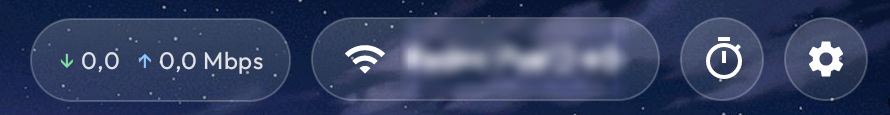
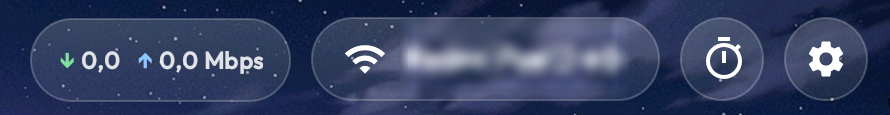
Launcher: huruf pil kecepatan internet ditebalkan dan rilis 3.38-netspeed-tebal
Posisi, warna panah, dan perilaku tidak berubah. Diuji di AX810 (Android TV 11).

Changed region(s): [[0.0607, 0.4435, 0.3034, 0.6261]]

diff --git a/PASANG.md b/PASANG.md
@@ -9,8 +9,8 @@ Launcher Android TV / Google TV bergaya Apple TV, berbasis [CleanYourTV](https:/
 - Kartu jadwal sholat dan jadwal bola dibuat **lebih besar**; kartu kalender disembunyikan secara bawaan (bisa dimunculkan lagi di Setelan)
 - Kartu bergaya **kaca bening (tembus pandang)**: wallpaper tetap terlihat di balik latar buram, dengan kilau tipis di atas, tepi terang, dan teks putih tebal yang mudah dibaca dari sofa
 - **Cuaca hari ini** tepat di bawah tanggal, dengan ikon yang berubah mengikuti kondisi (mis. `Gerimis · 28°C · 26°–29°`), mengikuti lokasi jadwal sholat. Saat jam berjalan berisi hujan (minimal 0,1 mm), teks dan ikon mengikuti data per jam, jadi gerimis tidak lagi tertulis "Berawan"
-- **Baris statistik** kecil di bawah jam: CPU, RAM dan penyimpanan yang sedang dipakai (build 3.27-3.37), dengan ikon dan teks yang disejajarkan
-- **Kecepatan internet** kecil di kiri nama Wi-Fi: unduh dan unggah dalam Mbps, diperbarui tiap detik selama Home tampil (build 3.36-3.37)
+- **Baris statistik** kecil di bawah jam: CPU, RAM dan penyimpanan yang sedang dipakai (build 3.27-3.38), dengan ikon dan teks yang disejajarkan
+- **Kecepatan internet** kecil berhuruf tebal di kiri nama Wi-Fi: unduh dan unggah dalam Mbps, diperbarui tiap detik selama Home tampil (build 3.36-3.38)
 - **Tombol mic di remote** membuka suara Google (build 3.35). Di TV SDMC/AX810 tombol itu dulu tidak bereaksi karena aplikasi suara Google-nya dimatikan; build ini menyalakannya lagi dan menambahkan jembatan kecil di launcher
 
 Butuh TV Android 8 ke atas, dan sebuah HP Android (pakai Termux) atau komputer untuk menjalankan adb. Cukup sekali saat memasang.
@@ -40,7 +40,7 @@ Izinkan akses penyimpanan saat diminta. File yang kamu unduh ada di `~/storage/d
 
 **Pakai komputer.** Pasang [Android platform-tools](https://developer.android.com/tools/releases/platform-tools), lalu buka Terminal / Command Prompt di folder tempat APK diunduh.
 
-Unduh/salin `CleanYourTV-Sola-3.37-netspeed-kiri.apk` (ada di folder yang sama dengan panduan ini) ke HP atau komputer.
+Unduh/salin `CleanYourTV-Sola-3.38-netspeed-tebal.apk` (ada di folder yang sama dengan panduan ini) ke HP atau komputer.
 
 ## 3. Sambungkan dan cari launcher bawaan
 
@@ -78,7 +78,7 @@ Di Termux (ganti path-nya kalau pakai komputer), jalankan berurutan:
 ```
 adb shell pm enable <launcher-bawaan>
 adb uninstall com.gathin.tvhome
-adb install ~/storage/downloads/CleanYourTV-Sola-3.37-netspeed-kiri.apk
+adb install ~/storage/downloads/CleanYourTV-Sola-3.38-netspeed-tebal.apk
 adb shell cmd package set-home-activity --user 0 com.gathin.tvhome/.MainActivity
 adb shell pm disable-user --user 0 <launcher-bawaan>
 ```
@@ -94,7 +94,7 @@ Tekan tombol **Home** di remote untuk mengecek, lalu lanjut ke langkah 5.
 Kalau TV-mu sudah memakai build khusus ini (kunci debug yang sama) dan cuma ingin memasang versi baru, semua pengaturan tetap aman:
 
 ```
-adb install -r ~/storage/downloads/CleanYourTV-Sola-3.37-netspeed-kiri.apk
+adb install -r ~/storage/downloads/CleanYourTV-Sola-3.38-netspeed-tebal.apk
 ```
 
 Selesai, langkah 5 dan 6 tidak perlu diulang. Kalau gagal dengan pesan `INSTALL_FAILED_UPDATE_INCOMPATIBLE` atau `signatures do not match`, berarti yang terpasang adalah CleanYourTV versi resmi (kunci berbeda); pakai **A. Pasang baru**.

diff --git a/README.md b/README.md
@@ -14,7 +14,7 @@ Tambahan di fork ini:
 - **Grafik CPU / RAM / Disk** tiga batang di bawah jam, sejajar dengan tepi kartu jadwal sholat
 - **Tanggal Minggu**: hanya angka tanggal yang merah, nama bulan tetap putih
 - **Timer tidur** di samping Setelan (butuh Android 9+), tombol atas ikon saja
-- **Kecepatan internet** kecil di kiri nama Wi-Fi: unduh dan unggah dalam Mbps, diperbarui tiap detik
+- **Kecepatan internet** kecil berhuruf tebal di kiri nama Wi-Fi: unduh dan unggah dalam Mbps, diperbarui tiap detik
 - **Nama Wi-Fi lengkap** di pil atas, tidak dipotong
 - **Pemasang Windows** yang memasang, menjadikan Home, me-reboot, lalu memeriksa sendiri
   bahwa Home kembali normal dan tidak ada crash
@@ -42,12 +42,12 @@ Tambahan di fork ini:
 
 ### Unduh dan pasang
 
-Rilis terbaru: **3.37-netspeed-kiri** (versionCode 47).
+Rilis terbaru: **3.38-netspeed-tebal** (versionCode 48).
 
 | Berkas | Isi |
 |---|---|
-| [`CleanYourTV-Sola-3.37-netspeed-kiri.apk`](https://github.com/luqman-hakiem/CleanYourTV-Sola/releases/latest/download/CleanYourTV-Sola-3.37-netspeed-kiri.apk) | APK launcher saja |
-| [`CleanYourTV-Sola-3.37-pasang.zip`](https://github.com/luqman-hakiem/CleanYourTV-Sola/releases/latest/download/CleanYourTV-Sola-3.37-pasang.zip) | Paket lengkap: APK + `adzan.mp3` + pemasang Windows + panduan + screenshot |
+| [`CleanYourTV-Sola-3.38-netspeed-tebal.apk`](https://github.com/luqman-hakiem/CleanYourTV-Sola/releases/latest/download/CleanYourTV-Sola-3.38-netspeed-tebal.apk) | APK launcher saja |
+| [`CleanYourTV-Sola-3.38-pasang.zip`](https://github.com/luqman-hakiem/CleanYourTV-Sola/releases/latest/download/CleanYourTV-Sola-3.38-pasang.zip) | Paket lengkap: APK + `adzan.mp3` + pemasang Windows + panduan + screenshot |
 
 Unduh zip kalau ingin semua sekaligus; di dalamnya ada `pasang.bat` (memasang APK,
 menjadikan Home, me-reboot, lalu memeriksa sendiri) dan `pasang-adzan.bat` (memasang
